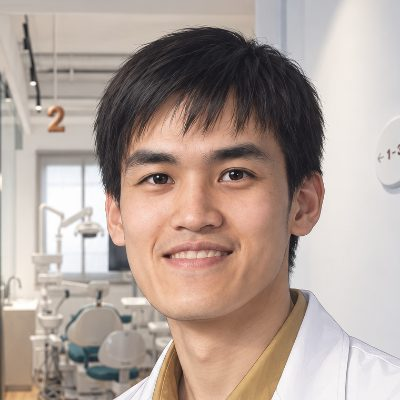
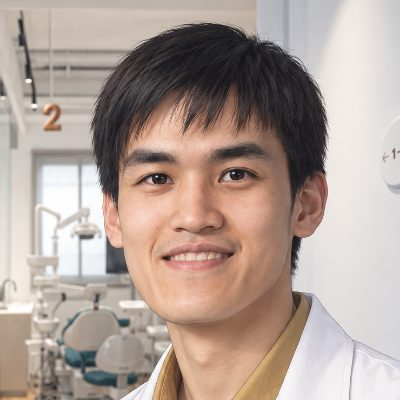
提案頁 doctor-xie 第二輪：臉再大一點（740／720／700／680，760 留著對照）
使用者看完第一輪：「感覺臉可以比760再大一點」。第一輪 760／800／840 作廢，
改往小框（＝臉大）那一側給一把尺，預設 720。680 頭頂只剩 2.4% 的留白，
再小就貼邊了，所以尺停在那裡。

驗過 375／1042／1440：五格都切得動、間距一致、無水平捲動、無 JS 錯誤、無 404。

Claude-Session: https://claude.ai/code/session_01RV4Vaoame6nRHuK7sD9yR8

diff --git a/preview/doctor-xie/index.html b/preview/doctor-xie/index.html
@@ -106,17 +106,23 @@ r.dataset.theme=s;})();</script>
      **不是版面。** 圓頭像那一套 2026-09-19 已經定案上線，這一頁完全沿用。
      只有一張照片，所以要挑的是**框的大小**（頭在圓裡多滿）：
 
-       Ⓐ 框 760　頭比較滿
-       Ⓑ 框 800　和王俊偉並排最接近（預設）
-       Ⓒ 框 840　留白多一點
+     第一輪給 760／800／840，使用者：「感覺臉可以比760再大一點」。
+     第二輪往臉大那一側給一把尺，760 留著當對照：
+
+       對照 框 760（第一輪最滿的那一格）
+       Ⓐ 框 740　頭頂留白 5.7%
+       Ⓑ 框 720　頭頂留白 4.6%（預設）
+       Ⓒ 框 700　頭頂留白 3.4%
+       Ⓓ 框 680　頭頂留白 2.4%（再小頭頂就貼邊了）
 
      ---- 裁切怎麼來的 -------------------------------------------------------
      原圖 1024x1536，量到 髮頂 135／眼睛 420／下巴 685／臉中線 580，
      照李柄輝的比例（眼睛在框高 44.2%、臉中線在框寬 49.3%）定位置。
-       Ⓐ 205,84,760,760　Ⓑ 186,66,800,800　Ⓒ 166,49,840,840
+       對照 205,84,760,760　Ⓐ 215,93,740,740　Ⓑ 225,102,720,720
+       Ⓒ 235,111,700,700　Ⓓ 245,119,680,680
 
      ---- 切換條 -------------------------------------------------------------
-     網址參數 ?p=off|a|b|c（off ＝ 對照現況，那張卡沒有照片；不帶 ＝ Ⓑ）
+     網址參數 ?p=off|r|a|b|c|d（off ＝ 沒有照片、r ＝ 760 對照；不帶 ＝ Ⓑ）
      ========================================================================== -->
 <meta property="og:locale" content="zh_TW">
 <meta name="twitter:card" content="summary_large_image">
@@ -9423,9 +9429,13 @@ html[data-theme="dark"] [data-topic="kids"] .tp-intro::before { background-image
     <div class="pvbar-body">
       <div class="pvbar-g">框的大小　<em>版面已定案，這裡只換裁切</em></div>
       <div class="pvbar-row" data-k="p">
-        <button type="button" data-v="a">Ⓐ<small>頭滿・760</small></button>
-        <button type="button" data-v="b">Ⓑ<small>居中・800</small></button>
-        <button type="button" data-v="c">Ⓒ<small>留白・840</small></button>
+        <button type="button" data-v="a">Ⓐ<small>740</small></button>
+        <button type="button" data-v="b">Ⓑ<small>720</small></button>
+        <button type="button" data-v="c">Ⓒ<small>700</small></button>
+        <button type="button" data-v="d">Ⓓ<small>680</small></button>
+      </div>
+      <div class="pvbar-row">
+        <button type="button" data-v="r">對照：上一輪的 760</button>
       </div>
       <div class="pvbar-row">
         <button type="button" data-v="off">對照現況（這張卡沒有照片）</button>
@@ -9443,18 +9453,18 @@ html[data-theme="dark"] [data-topic="kids"] .tp-intro::before { background-image
   var img  = document.querySelector('.pv-face');
   var pic  = img.parentNode;
   var card = pic.parentNode;
-  var ALL  = ['a','b','c','off'];
-  var LBL  = { a:'Ⓐ 頭滿 760', b:'Ⓑ 居中 800', c:'Ⓒ 留白 840', off:'現況（沒有照片）' };
-  var NOTE = {"a":"裁切 205,84,760,760　頭比較滿","b":"裁切 186,66,800,800　和王俊偉並排最接近","c":"裁切 166,49,840,840　留白多一點"};
+  var ALL  = ['r','a','b','c','d','off'];
+  var LBL  = { r:'對照 760', a:'Ⓐ 740', b:'Ⓑ 720', c:'Ⓒ 700', d:'Ⓓ 680', off:'現況（沒有照片）' };
+  var NOTE = {"r":"裁切 205,84,760,760　第一輪最滿的那一格，當對照","a":"裁切 215,93,740,740　頭頂留白 5.7%","b":"裁切 225,102,720,720　頭頂留白 4.6%","c":"裁切 235,111,700,700　頭頂留白 3.4%","d":"裁切 245,119,680,680　頭頂留白 2.4%，再小頭頂就貼邊"};
   var st = 'b';
 
   var q = new URLSearchParams(location.search).get('p');
   if (q !== null && ALL.indexOf(q) >= 0) st = q;
 
-  /* 三格都先抓下來，切換才不必等下載 —— Worker 對 preview 設 no-store，
+  /* 每一格都先抓下來，切換才不必等下載 —— Worker 對 preview 設 no-store，
      不預抓的話每按一次都要重抓一遍（og-topic-card 那一輪定下的做法）。 */
   addEventListener('load', function () {
-    ['a','b','c'].forEach(function (k) { new Image().src = 'img/xie-' + k + '-400.jpg'; });
+    ['r','a','b','c','d'].forEach(function (k) { new Image().src = 'img/xie-' + k + '-400.jpg'; });
   });
 
   function apply() {
@@ -9505,7 +9515,7 @@ html[data-theme="dark"] [data-topic="kids"] .tp-intro::before { background-image
     rows += '<div class="m"><span>同一列還有</span><b>' + mates.length + ' 張</b></div>';
     rows += '<div class="m ' + (over > 0 ? 'bad' : 'good') + '"><span>水平捲動</span><b>' + (over > 0 ? over + 'px' : '無') + '</b></div>';
     rows += '<hr><div class="pvbar-note"><b>' + LBL[st] + '</b>：' + NOTE[st] +
-      '<br>版面是 2026-09-19 已經定案的那一套，這一頁只換裁切；三格差在頭在圓裡多滿，' +
+      '<br>版面是 2026-09-19 已經定案的那一套，這一頁只換裁切；各格差在頭在圓裡多滿，' +
       '和站上那三顆並排比比看。要對照沒有照片的樣子按最底下那一顆。</div>';
     foot.innerHTML = rows;
   }
